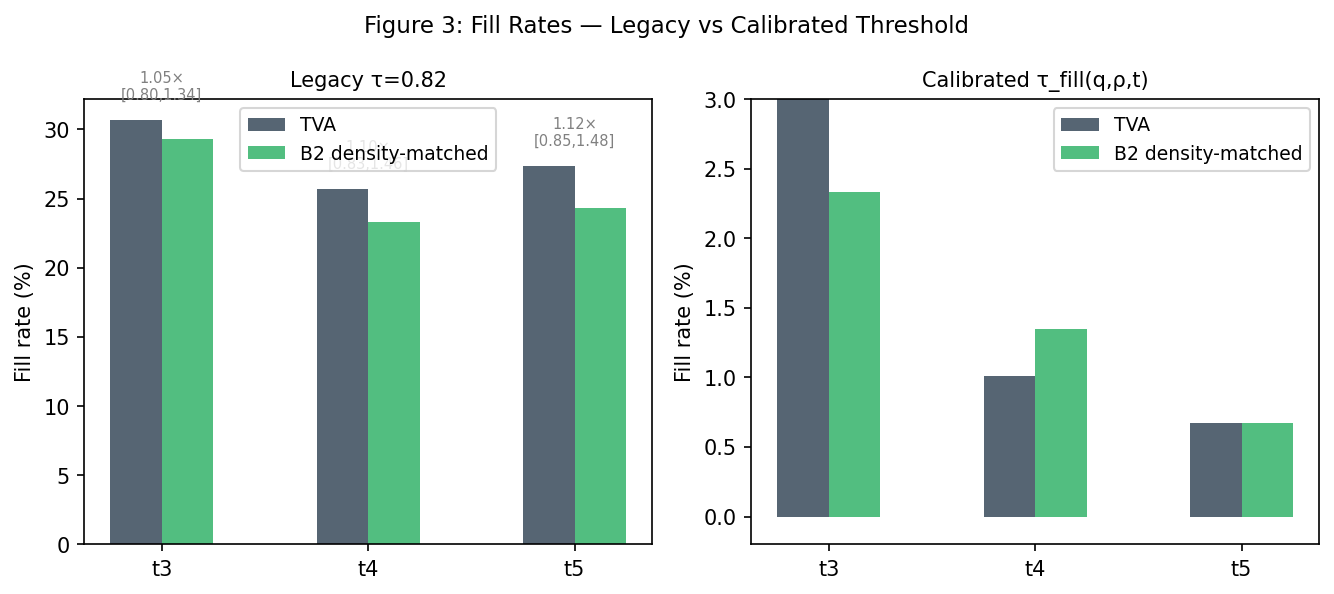
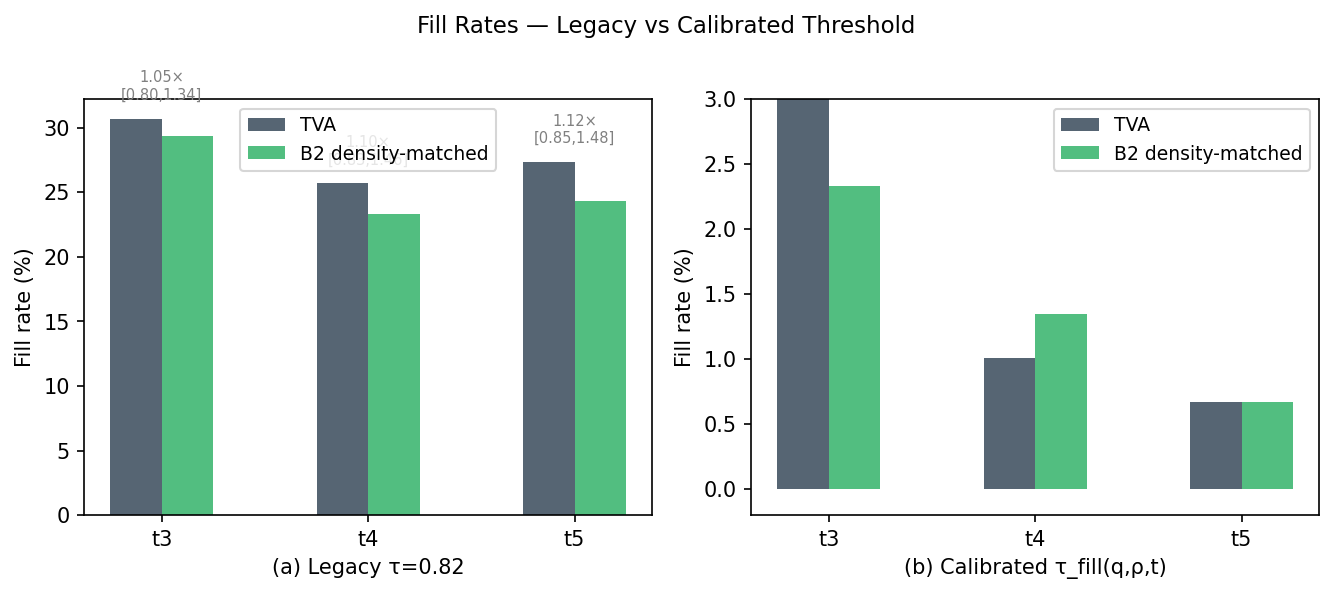
fix(paper2): remove all hardcoded figure titles from matplotlib plots
ax.set_title() and fig.suptitle() removed from all figures — LaTeX
\caption{} is authoritative for figure numbering and description.
Sub-panel labels moved to ax.set_xlabel() where needed (fig3).
Regenerated fig1/2/3/4/6.

diff --git a/scripts/temporal_validation/generate_paper2_figures.py b/scripts/temporal_validation/generate_paper2_figures.py
@@ -204,7 +204,7 @@ def fig3_fill_rates_ci():
     ax.bar(x - width/2, tva_rates, width, label="TVA", color=COLORS["tva"], alpha=0.8)
     ax.bar(x + width/2, b2_rates,  width, label="B2 density-matched", color=COLORS["b2"], alpha=0.8)
     ax.set_xticks(x); ax.set_xticklabels(split_labels)
-    ax.set_ylabel("Fill rate (%)"); ax.set_title("Legacy τ=0.82", fontsize=10)
+    ax.set_ylabel("Fill rate (%)", fontsize=10); ax.set_xlabel("(a) Legacy τ=0.82", fontsize=10)
     ax.legend(fontsize=9)
 
     # Annotate lift + CI
@@ -220,11 +220,11 @@ def fig3_fill_rates_ci():
     ax.bar(x - width/2, tva_c, width, label="TVA", color=COLORS["tva"], alpha=0.8)
     ax.bar(x + width/2, b2_c,  width, label="B2 density-matched", color=COLORS["b2"], alpha=0.8)
     ax.set_xticks(x); ax.set_xticklabels(split_labels)
-    ax.set_ylabel("Fill rate (%)"); ax.set_title("Calibrated τ_fill(q,ρ,t)", fontsize=10)
+    ax.set_ylabel("Fill rate (%)", fontsize=10); ax.set_xlabel("(b) Calibrated τ_fill(q,ρ,t)", fontsize=10)
     ax.legend(fontsize=9)
     ax.set_ylim(-0.2, 3)
 
-    fig.suptitle("Figure 3: Fill Rates — Legacy vs Calibrated Threshold", fontsize=11)
+    fig.suptitle("Fill Rates — Legacy vs Calibrated Threshold", fontsize=11)
     plt.tight_layout()
     out = FIGURES_DIR / "fig3_fill_rates_ci.pdf"
     plt.savefig(out, bbox_inches="tight")